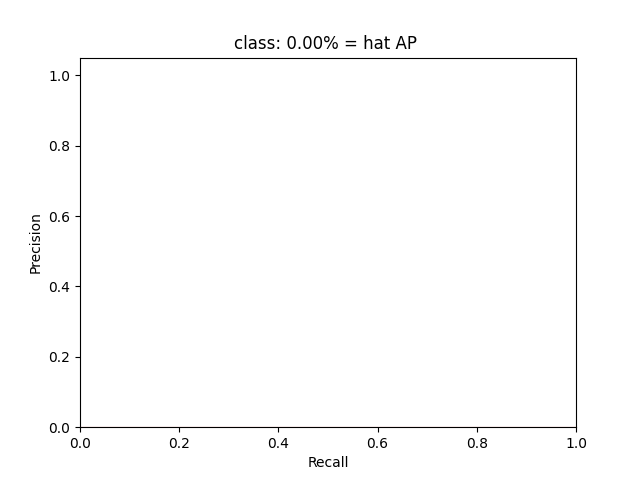
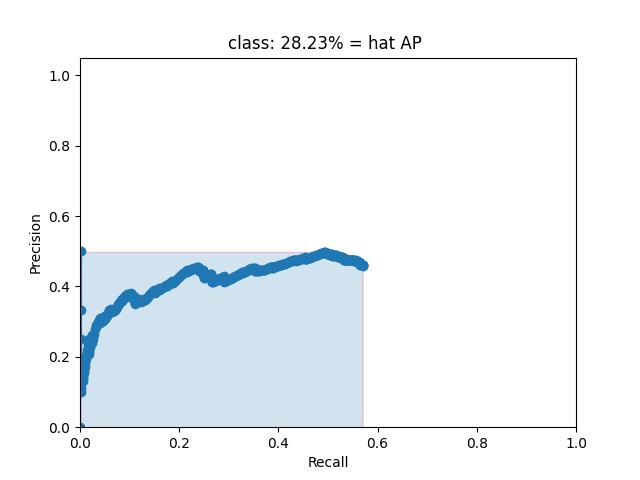
v3.3.5

Changed region(s): [[0.125, 0.5, 0.5938, 0.9062], [0.3438, 0.0625, 0.5312, 0.125], [0.5625, 0.0625, 0.6562, 0.125]]

diff --git a/extremevision/api_1_0/algo_data_set.py b/extremevision/api_1_0/algo_data_set.py
@@ -10,6 +10,8 @@ from flask import request, jsonify, Response
 from xml.etree import ElementTree
 from extremevision.utils.response_codes import RET
 from werkzeug.utils import secure_filename
+from collections import defaultdict
+from xml.etree.ElementTree import parse
 import uuid
 import os
 import random
@@ -48,6 +50,73 @@ def algo_data_set():
     task = deal_with_files_data.delay(file_name, files_dir, port, file_suffix, tag_suffix, tag_kinds)
 
     return jsonify(errno=RET.OK, task_id=task.id)
+
+
+@api.route('/algo_sdk/change_xml_tag', methods=['POST'])
+def change_xml_tag():
+    """
+    用于替换xml标签, 一次只支持替换一个标签, 先不支持替换多个(场景不多)
+    """
+    res_datas = request.values
+    xml_file = request.files.get('xml_file')
+    xml_tag = res_datas.get('xml_tag')
+    change_xml_tag = res_datas.get('change_xml_tag')
+    xml_tag = xml_tag.replace(" ", "")
+    change_xml_tag = change_xml_tag.replace(" ", "")
+
+    filename = xml_file.filename
+    if not filename.lower().endswith('zip'):
+        return jsonify(error=RET.DATAERR, errmsg="上传的图片和xml文件请打包zip格式上传")
+
+    random_str = ''.join([each for each in str(uuid.uuid1()).split('-')])
+    files_dir = os.path.join(path, f"tmp/data_set_file/{random_str}")
+    if not os.path.exists(files_dir):
+        os.makedirs(files_dir)
+    file_name = os.path.join(files_dir, filename)
+    secure_filename(filename)
+    xml_file.save(file_name)
+
+    os.system(f"unzip {file_name} -d {files_dir}")
+    os.system(f"rm -rf {file_name}")
+    filenames = iter_files_xml(files_dir)
+    xmlfiles = filenames["xml_dir"]
+    for xml in xmlfiles:
+        file = xml.split("/")[-1]
+        doc = parse(xml)
+        root = doc.getroot()
+        res_kinds = doc.iterfind('object/name')
+        res_coordinates = doc.iterfind('object/bndbox')
+        for res_kind in res_kinds:
+            if res_kind.text == xml_tag:
+                res_kind.text = change_xml_tag
+                doc.write(xml, xml_declaration=True)
+    os.system(f"cd  {files_dir};tar -cPvf result_xml_change.tar *; mv result_xml_change.tar ..")
+    res_xml = os.path.join(path, f"tmp/data_set_file/result_xml_change.tar")
+    os.system(f"rm -rf {files_dir}")
+    response = Response(send_file(res_xml), content_type='application/octet-stream')
+    response.headers["Content-disposition"] = 'attachment; filename=result_xml_change.tar'
+    return response
+
+def iter_files_xml(rootDir):
+    """
+    根据文件路径 返回文件名称 以及文件路径名称
+    :param rootDir:
+    :return:
+    """
+    filenames = defaultdict(list)
+    for root, dirs, files in os.walk(rootDir):
+        for file in files:
+            file = os.path.join(root, file)
+            if file.lower().endswith("xml"):
+                filenames["xml_dir"].append(file)
+            else:
+                filenames["error_file"].append(file)
+        for dir in dirs:
+            iter_files(dir)
+
+    return filenames
+
+
 
 @api.route('/algo_sdk/format_xml', methods=['POST'])
 def format_xml():

diff --git a/extremevision/utils/sdk_precision/run.py b/extremevision/utils/sdk_precision/run.py
@@ -36,7 +36,7 @@ def clear_dirs():
     os.makedirs(files)
 
 @celery.task(bind=True)
-def run_files(self, rootDir, port, names, iou, args, alert_info):
+def run_files(self, rootDir, port, names, iou, args, alert_info, hat):
     filenames = iter_files(rootDir)
     xmls = filenames["xmls"]
     files = filenames["files"]
@@ -48,7 +48,11 @@ def run_files(self, rootDir, port, names, iou, args, alert_info):
     time.sleep(3)
     for file in files:
         file_count += 1
-        txt_create(file, port, names, args, alert_info)
+        if hat is not None and hat.endswith("gpu"):
+            hat = "report_num_hat"
+            txt_create(file, port, names, args, alert_info, hat)
+        else:
+            txt_create(file, port, names, args, alert_info)    
         process = int(file_count/total_files*100)
         self.update_state(state='PROGRESS', meta={'current': file_count, 'total': total_files, 'status': process})
     main = os.path.join(path, "utils/sdk_precision/main.py")
@@ -109,7 +113,7 @@ def xml_create(file, path):
                     "%s %s %s %s %s\n" % (name, int(float(xmin)), int(float(ymin)), int(float(xmax)), int(float(ymax))))
 
 
-def txt_create(file, port, names, args, alert_info):
+def txt_create(file, port, names, args, alert_info, hat=None):
     url = request_host_without_port + ":" + str(port) + "/api/analysisImage"
     image = file.split('/')[-1]
     data = {
@@ -132,7 +136,15 @@ def txt_create(file, port, names, args, alert_info):
             confidence = "1"
         for name in names:
             if res.get(name) is not None:
-                name = res.get(name)
+                if hat is not None:
+                    name = "report_num_hat"
+                    name = res.get(name)
+                    if int(name) == 1:
+                        name = "hat"
+                    else:
+                        name = "head"
+                else:
+                    name = res.get(name)
                 x = res.get('x')
                 y = res.get('y')
                 width = res.get('width') + x

diff --git a/extremevision/api_1_0/sdk_miss_rate.py b/extremevision/api_1_0/sdk_miss_rate.py
@@ -32,7 +32,8 @@ def get_files_result():
     iou = res_datas.get('iou')
     image_name = res_datas.get("image_name")
     args = res_datas.get("args")
-
+    hat = res_datas.get('hat')
+    
     tag_names = tag_names.replace(" ", "").split(",")
     port = random.randint(10000, 65000)
     if not all([tag_names, image_name, alert_info]):
@@ -67,7 +68,7 @@ def get_files_result():
     if res != "0":
         return jsonify(error=RET.ALGOVERSIONERR, errmsg="封装ias失败")
 
-    task = run_files.delay(files_dir, port, tag_names, iou, args, alert_info)
+    task = run_files.delay(files_dir, port, tag_names, iou, args, alert_info, hat)
 
     return jsonify(errno=RET.OK, task_id=task.id)
 
